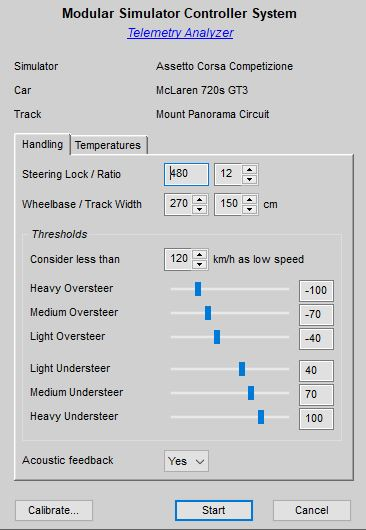
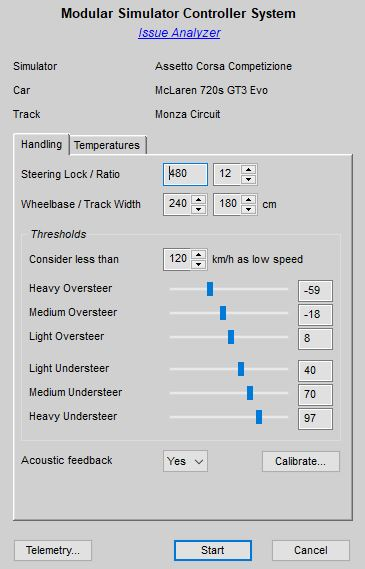
Telemetry-based Issue Analyzer Part 4

Changed region(s): [[0.0, 0.0906, 1.0, 1.0], [0.1507, 0.0, 0.8137, 0.2415], [0.4521, 0.7849, 0.5726, 0.8151]]

diff --git a/Docs/Setup Workbench.md b/Docs/Setup Workbench.md
@@ -87,6 +87,10 @@ Please be aware that not every handling issue is related to problems with the ca
 
 Final note: I would like to take the opportunity to thank the user "WallyM" of the *Assetto Corsa Competizione* forum, who provided parts of the algorithms used in the handling part of the analyzer.
 
+#### Analyzing handling issues based on saved lep telemetry files
+
+Instead of analyzing telemetry data live while on the track, you can also analyze data from a recent session as long as the telemetry files are still available, because they either have been saved to the session database or they are still available in the *Simulator Controller\Temp\Sessions* folder in your user *Documents* folder. To analyze telemetry data, click on "Telemetry..." on the first page instead of clicking on "Start". Then locate and load the telemetry file(s) you want to use using the file browser and inspect the detected issues, which had been generated based on the telemetry data.
+
 #### Installation of Telemetry Providers
 
 The analyzer acquires telemetry data from the different simulation games using so called telemetry providers, which in most cases read the required data from a shared memory interface. In general these are already included in Simulator Controller and there is nothing to do, but for *Assetto Corsa*, *rFactor 2* and *Le Mans Ultimate*, you need to install and activate a plugin into a special location for the telemetry interface to work and for *Automobilista 2* and *Project CARS 2* a change in the settings is necessary.

diff --git a/Docs/Releases.md b/Docs/Releases.md
@@ -57,7 +57,9 @@ Please also take a look at the [Update Notes](https://github.com/SeriousOldMan/S
   
 #### Changes
 
+  - The "Setup Workbench" can now analyze telemetry data from a session after the session already ended, as long as the telemetry data is still available. The Issue Analyzer can then create handling issues based on the telemetry data. See [here](https://github.com/SeriousOldMan/Simulator-Controller/wiki/Setup-Workbench#Analyzing-handling-issues-based-on-saved-lep-telemetry-files) for more information.
   - The automatic installation of Windows runtimes and language specific speech recognition libraries can now be rejected on the "Basic" configuration page in "Simulator Setup". Once rejected, they can still be installed later on using the extended configuration mode.
+  - [Internal] The background processes for the Race Engineer, the Race Strategist and the Race Spotter got new icons.
 
 # Release history
 

diff --git a/Docs/Session Database.md b/Docs/Session Database.md
@@ -186,7 +186,7 @@ If you use the "Open..." button in the dialog, which let's you browse the availa
 - You can load telemetry files from Simulator Controller, for example a file that has been sent to you by a team mate.
 - You can import telemetry data from ["Second Monitor"](https://gitlab.com/winzarten/SecondMonitor), as long as it has been saved as JSON file, which can be activated in the settings of "Second Monitor".
 - Importing IBT files from *iRacing* is also supported, as long as a track map for the currently selected track has already been created. In this case, you will first have to select the IBT file, which is then split up into individual files for each lap contained in the IBT file. After that is done, you can select the laps, which you want to import.
-- And you can import telemetry files from "MoTec". They must be exported as "CSV" files and the "Distance" field must be included. Since "MoTeC" uses the absolute angle for the steering information, it is beneficial to divide this value by the steer lock of the car, to make the information comparable to that of other lap telemetry data. The importer will use the information available in the "Setup Workbench" about the different cars, or you can define the [corresponding setting](https://github.com/SeriousOldMan/Simulator-Controller/wiki/Session-Database#settings) in the "Session Database".
+- And you can import telemetry files from "MoTec". They must be exported as "CSV" files and the "Distance" (meters) field must be included. And if you want to use the telemetry data also for handling analysis, include a "YawRate" (radians / sec) field as well. Since "MoTeC" uses the absolute angle for the steering information, it is beneficial to divide this value by the steer lock of the car, to make the information comparable to that of other lap telemetry data. The importer will use the information available in the "Setup Workbench" about the different cars, or you can define the [corresponding setting](https://github.com/SeriousOldMan/Simulator-Controller/wiki/Session-Database#settings) in the "Session Database".
 - Finally, telemetry data can be imported from any tool, as long as an export in generic CSV format is supported. The following columns are supported:
 
   | Column (1)     | Required (2)  | Value      |

diff --git a/README.md b/README.md
@@ -46,7 +46,7 @@ Please read the [Release Notes](https://github.com/SeriousOldMan/Simulator-Contr
 
 #### Current development build
 
-[6.9.6.0-dev]() (Early build for 6.9.6. Changes: Rejectable installation of runtimes in "Simulator Setup".)
+[6.9.6.0-dev]() (Early build for 6.9.6. Changes: Rejectable installation of runtimes in "Simulator Setup", New Assistant Icons, Telemetry-based Issue Analyzer.)
 
 Please read the [Release Notes](https://github.com/SeriousOldMan/Simulator-Controller/wiki/Release-Notes#6960) and - sometimes even more important - the release specific [Update Notes](https://github.com/SeriousOldMan/Simulator-Controller/wiki/Update-Notes#release-696) of this version and all the versions you might have skipped, before installing and using this version.
 

diff --git a/Docs/Keyboard Modifiers.md b/Docs/Keyboard Modifiers.md
@@ -86,7 +86,6 @@ Many applications of Simulator Controller provide a couple of modifier keys for 
 | Function | Modifier | Description |
 |----------|----------|-------------|
 | Loading problems and issues | Control | Holding down the Control key while loading problem descriptions from a file, will **not** clear the current issue list but will add to it instead. |
-| Running the Issue Analyzer | Control | Holding down the Control key when clicking on "Start" in the Issue Analyzer will give you the opportunity to load any available lap telemetry instead of starting the Issue Analyzer. If the telemetry file has been created with Release 6.9.6 or later, issues will be generated based on the telemetry data. |
 | Starting and Exiting | Control | Holding down the Control when exiting will save the current issue list to a temporary file and holding down the Control key when starting "Setup Workbench" will load those saved issues, so that you can continue your work. |
 | Deleting lap telemetry | Control | When holding down the Control key while deleting the selected lap telemetry, **all** telemetry laps will be removed from the Telemetry Viewer. |
 | Shifting telemetry graph | Control / Control + Shift | When shifting the reference telemetry graph to the left or to the right, it will be shifted by 10 meters, if the Control key is held down, or if the Shift key is held down additionally, by 50 meters. |